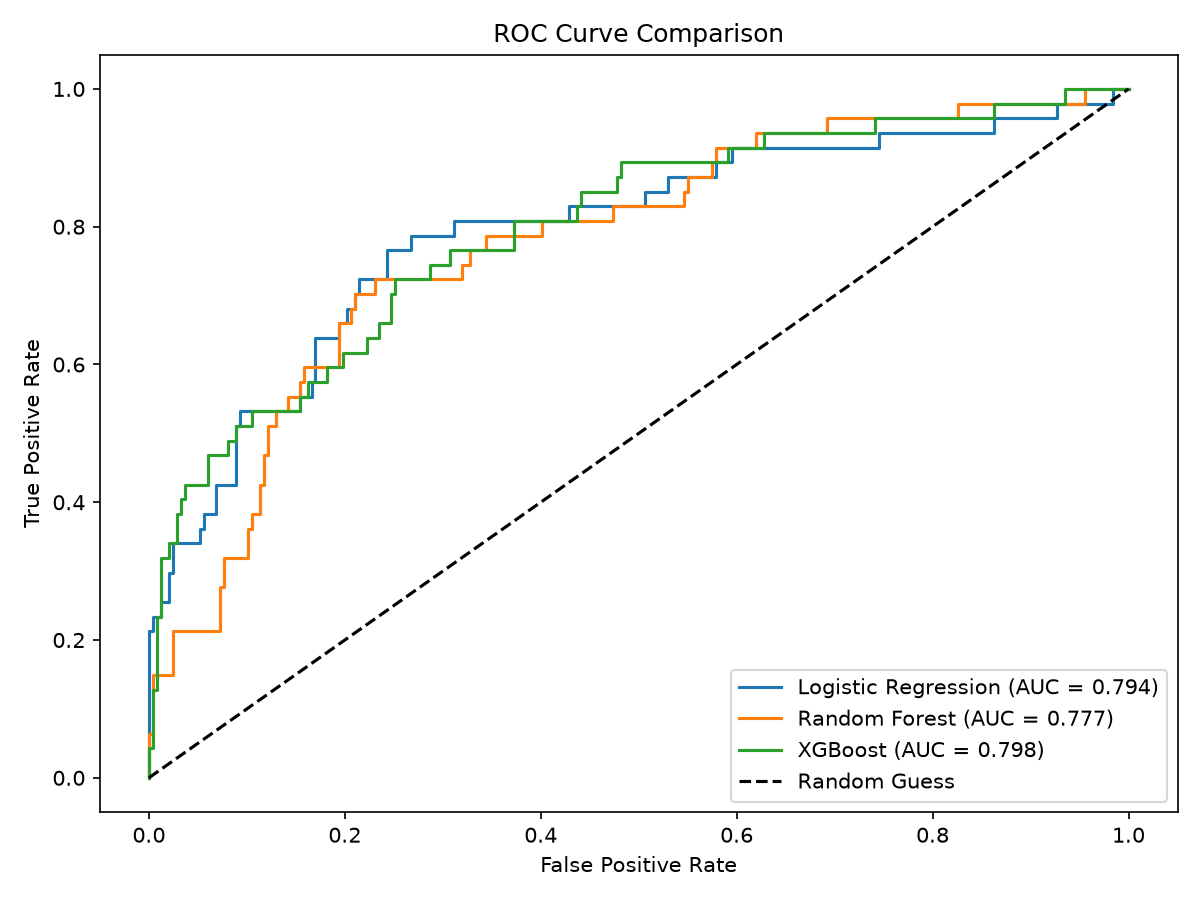
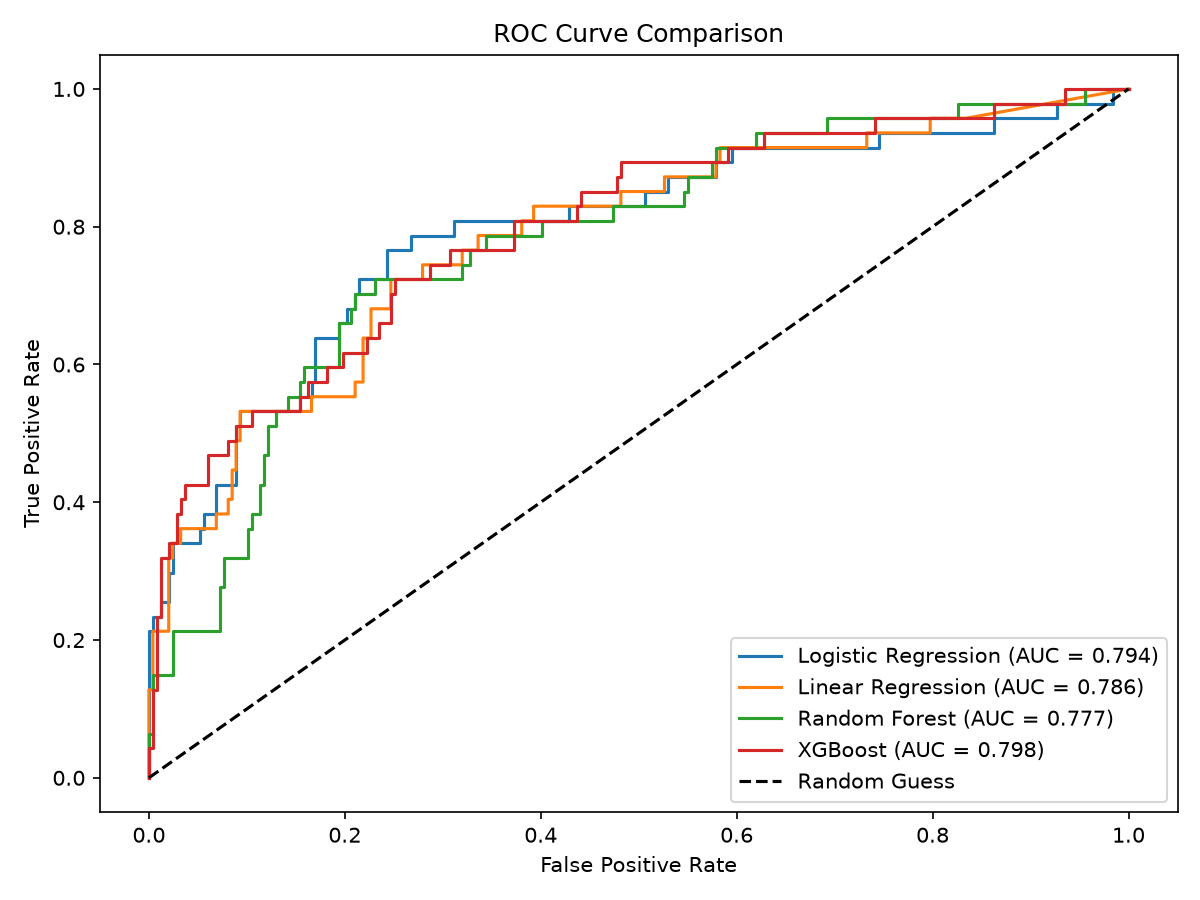
Integrate Linear Regression classifier baseline with thresholded predictions

Changed region(s): [[0.3392, 0.0933, 0.925, 0.3111], [0.1233, 0.3111, 0.3392, 0.84], [0.6167, 0.7156, 0.9867, 0.84]]

diff --git a/Streamlit_App/app.py b/Streamlit_App/app.py
@@ -591,7 +591,7 @@ with tab_predict:
             with col_select:
                 selected_model_name = st.radio(
                     "Classifier Engine", 
-                    ["XGBoost", "Random Forest", "Logistic Regression"],
+                    ["XGBoost", "Random Forest", "Logistic Regression", "Linear Regression"],
                     horizontal=True,
                     help="Choose the algorithm to run the prediction."
                 )
@@ -718,19 +718,25 @@ with tab_compare:
         st.markdown('<div class="premium-hr"></div>', unsafe_allow_html=True)
         
         st.markdown("#### Confusion Matrices")
-        col_cm1, col_cm2, col_cm3 = st.columns(3)
-        with col_cm1:
-            cm1_path = os.path.join(assets_dir, "logistic_regression_cm.png")
-            if os.path.exists(cm1_path):
-                st.image(cm1_path, caption="Logistic Regression Confusion Matrix", use_container_width=True)
-        with col_cm2:
-            cm2_path = os.path.join(assets_dir, "random_forest_cm.png")
-            if os.path.exists(cm2_path):
-                st.image(cm2_path, caption="Random Forest Confusion Matrix", use_container_width=True)
-        with col_cm3:
-            cm3_path = os.path.join(assets_dir, "xgboost_cm.png")
-            if os.path.exists(cm3_path):
-                st.image(cm3_path, caption="XGBoost Confusion Matrix", use_container_width=True)
+        col_cm_row1_1, col_cm_row1_2 = st.columns(2)
+        with col_cm_row1_1:
+            cm_xgb_path = os.path.join(assets_dir, "xgboost_cm.png")
+            if os.path.exists(cm_xgb_path):
+                st.image(cm_xgb_path, caption="XGBoost Confusion Matrix", use_container_width=True)
+        with col_cm_row1_2:
+            cm_rf_path = os.path.join(assets_dir, "random_forest_cm.png")
+            if os.path.exists(cm_rf_path):
+                st.image(cm_rf_path, caption="Random Forest Confusion Matrix", use_container_width=True)
+        
+        col_cm_row2_1, col_cm_row2_2 = st.columns(2)
+        with col_cm_row2_1:
+            cm_lr_path = os.path.join(assets_dir, "logistic_regression_cm.png")
+            if os.path.exists(cm_lr_path):
+                st.image(cm_lr_path, caption="Logistic Regression Confusion Matrix", use_container_width=True)
+        with col_cm_row2_2:
+            cm_lin_path = os.path.join(assets_dir, "linear_regression_cm.png")
+            if os.path.exists(cm_lin_path):
+                st.image(cm_lin_path, caption="Linear Regression Confusion Matrix", use_container_width=True)
                 
     else:
         st.info("Performance comparative metrics missing. Run `train_models.py` first.")

diff --git a/generate_notebook.py b/generate_notebook.py
@@ -52,7 +52,7 @@ def create_notebook():
         "3. **Data Preprocessing**: Handle duplicates, analyze missing values, treat outliers, encode features, scale numbers.",
         "4. **Exploratory Data Analysis (EDA)**: Conduct univariate, bivariate, and multivariate analysis with visual representations.",
         "5. **Feature Engineering**: Select important features and address class imbalance using SMOTE.",
-        "6. **Model Building**: Train Logistic Regression, Random Forest, and XGBoost models.",
+        "6. **Model Building**: Train Logistic Regression, Linear Regression, Random Forest, and XGBoost models.",
         "7. **Model Evaluation**: Compare models using Accuracy, Precision, Recall, F1-Score, and ROC-AUC metrics.",
         "8. **Deployment**: Package models and build a Streamlit web application."
     ])
@@ -68,7 +68,7 @@ def create_notebook():
         "from sklearn.model_selection import train_test_split",
         "from sklearn.preprocessing import StandardScaler, OneHotEncoder",
         "from sklearn.compose import ColumnTransformer",
-        "from sklearn.linear_model import LogisticRegression",
+        "from sklearn.linear_model import LogisticRegression, LinearRegression",
         "from sklearn.ensemble import RandomForestClassifier",
         "from xgboost import XGBClassifier",
         "from sklearn.metrics import accuracy_score, precision_score, recall_score, f1_score, roc_auc_score, confusion_matrix, classification_report, roc_curve",
@@ -262,15 +262,17 @@ def create_notebook():
     # Cell 7: Model Building
     add_markdown([
         "## Model Building",
-        "We build and train three classification algorithms:",
+        "We build and train four models as classifier baselines:",
         "1. **Logistic Regression**",
-        "2. **Random Forest Classifier**",
-        "3. **XGBoost Classifier**"
+        "2. **Linear Regression (thresholded at 0.5)**",
+        "3. **Random Forest Classifier**",
+        "4. **XGBoost Classifier**"
     ])
     add_code([
         "# Define models",
         "models = {",
         "    'Logistic Regression': LogisticRegression(max_iter=1000, random_state=42),",
+        "    'Linear Regression': LinearRegression(),",
         "    'Random Forest': RandomForestClassifier(n_estimators=150, max_depth=12, random_state=42, n_jobs=-1),",
         "    'XGBoost': XGBClassifier(n_estimators=150, max_depth=5, learning_rate=0.08, use_label_encoder=False, eval_metric='logloss', random_state=42)",
         "}",
@@ -287,12 +289,18 @@ def create_notebook():
     ])
     add_code([
         "metrics = {}",
-        "fig, axes = plt.subplots(1, 3, figsize=(18, 5))",
+        "fig, axes = plt.subplots(2, 2, figsize=(12, 10))",
         "roc_fig, roc_ax = plt.subplots(figsize=(8, 6))",
         "",
         "for idx, (name, model) in enumerate(models.items()):",
-        "    y_pred = model.predict(X_test_processed)",
-        "    y_prob = model.predict_proba(X_test_processed)[:, 1]",
+        "    # Handle classification vs regression output",
+        "    if hasattr(model, 'predict_proba'):",
+        "        y_pred = model.predict(X_test_processed)",
+        "        y_prob = model.predict_proba(X_test_processed)[:, 1]",
+        "    else:",
+        "        y_prob = model.predict(X_test_processed)",
+        "        y_prob = np.clip(y_prob, 0, 1)",
+        "        y_pred = (y_prob >= 0.5).astype(int)",
         "    ",
         "    acc = accuracy_score(y_test, y_pred)",
         "    prec = precision_score(y_test, y_pred)",
@@ -310,17 +318,17 @@ def create_notebook():
         "    ",
         "    # Plot Confusion Matrix in subplot",
         "    cm = confusion_matrix(y_test, y_pred)",
-        "    sns.heatmap(cm, annot=True, fmt='d', cmap='Blues', cbar=False, ax=axes[idx],",
+        "    ax = axes.flatten()[idx]",
+        "    sns.heatmap(cm, annot=True, fmt='d', cmap='Blues', cbar=False, ax=ax,",
         "                xticklabels=['Stayed', 'Left'], yticklabels=['Stayed', 'Left'])",
-        "    axes[idx].set_title(f'{name} Confusion Matrix')",
-        "    axes[idx].set_ylabel('Actual')",
-        "    axes[idx].set_xlabel('Predicted')",
+        "    ax.set_title(f'{name} Confusion Matrix')",
+        "    ax.set_ylabel('Actual')",
+        "    ax.set_xlabel('Predicted')",
         "    ",
         "    # Plot ROC",
         "    fpr, tpr, _ = roc_curve(y_test, y_prob)",
         "    roc_ax.plot(fpr, tpr, label=f'{name} (AUC = {roc_auc:.3f})')",
         "",
-        "axes[0].set_ylabel('Actual')",
         "fig.tight_layout()",
         "plt.show()",
         "",

diff --git a/train_models.py b/train_models.py
@@ -8,7 +8,7 @@ import joblib
 from sklearn.model_selection import train_test_split
 from sklearn.preprocessing import StandardScaler, OneHotEncoder
 from sklearn.compose import ColumnTransformer
-from sklearn.linear_model import LogisticRegression
+from sklearn.linear_model import LogisticRegression, LinearRegression
 from sklearn.ensemble import RandomForestClassifier
 from xgboost import XGBClassifier
 from sklearn.metrics import (
@@ -142,6 +142,7 @@ def run_pipeline():
     print("\nTraining models...")
     models = {
         'Logistic Regression': LogisticRegression(max_iter=1000, random_state=42),
+        'Linear Regression': LinearRegression(),
         'Random Forest': RandomForestClassifier(n_estimators=150, max_depth=12, random_state=42, n_jobs=-1),
         'XGBoost': XGBClassifier(n_estimators=150, max_depth=5, learning_rate=0.08, use_label_encoder=False, eval_metric='logloss', random_state=42)
     }
@@ -161,8 +162,14 @@ def run_pipeline():
         joblib.dump(model, os.path.join(model_dir, model_filename))
         
         # Predictions
-        y_pred = model.predict(X_test_processed)
-        y_prob = model.predict_proba(X_test_processed)[:, 1]
+        if hasattr(model, 'predict_proba'):
+            y_prob = model.predict_proba(X_test_processed)[:, 1]
+            y_pred = model.predict(X_test_processed)
+        else:
+            # Linear Regression baseline thresholded at 0.5
+            y_prob = model.predict(X_test_processed)
+            y_prob = np.clip(y_prob, 0, 1)  # Clip outputs to valid probability range [0, 1]
+            y_pred = (y_prob >= 0.5).astype(int)
         
         # Metrics
         acc = accuracy_score(y_test, y_pred)
@@ -265,10 +272,24 @@ def run_pipeline():
     
     plt.figure(figsize=(10, 5))
     sns.barplot(x=lr_coefs[lr_indices], y=np.array(feature_names)[lr_indices], palette='coolwarm')
+    st_warning = False # Place holder
     plt.title('Top 10 Coefficients (Logistic Regression)')
     plt.xlabel('Coefficient Value')
     plt.tight_layout()
     plt.savefig(os.path.join(assets_dir, 'lr_coefficients.png'), dpi=150)
+    plt.close()
+
+    # 4. Linear Regression Coefficients
+    lin_model = models['Linear Regression']
+    lin_coefs = lin_model.coef_
+    lin_indices = np.argsort(np.abs(lin_coefs))[::-1][:10]
+    
+    plt.figure(figsize=(10, 5))
+    sns.barplot(x=lin_coefs[lin_indices], y=np.array(feature_names)[lin_indices], palette='coolwarm')
+    plt.title('Top 10 Coefficients (Linear Regression)')
+    plt.xlabel('Coefficient Value')
+    plt.tight_layout()
+    plt.savefig(os.path.join(assets_dir, 'linear_regression_coefficients.png'), dpi=150)
     plt.close()
     
     print("\nAll models trained and evaluated. Serialized models and plots saved successfully!")

diff --git a/Streamlit_App/utils.py b/Streamlit_App/utils.py
@@ -15,6 +15,7 @@ def load_ml_assets():
         
         assets['models'] = {
             'Logistic Regression': joblib.load(os.path.join(model_dir, 'logistic_regression.joblib')),
+            'Linear Regression': joblib.load(os.path.join(model_dir, 'linear_regression.joblib')),
             'Random Forest': joblib.load(os.path.join(model_dir, 'random_forest.joblib')),
             'XGBoost': joblib.load(os.path.join(model_dir, 'xgboost.joblib'))
         }
@@ -37,8 +38,15 @@ def predict_attrition(model, preprocessor, original_cols, input_dict):
     processed_input = preprocessor.transform(df_input)
     
     # Predict binary outcome and probability
-    pred = int(model.predict(processed_input)[0])
-    prob = float(model.predict_proba(processed_input)[0, 1])
+    if hasattr(model, 'predict_proba'):
+        pred = int(model.predict(processed_input)[0])
+        prob = float(model.predict_proba(processed_input)[0, 1])
+    else:
+        # Linear Regression case
+        import numpy as np
+        prob = float(model.predict(processed_input)[0])
+        prob = float(np.clip(prob, 0, 1))
+        pred = 1 if prob >= 0.5 else 0
     
     return pred, prob
 
@@ -54,7 +62,8 @@ def extract_risk_factors(model, preprocessor, original_cols, input_dict, feature
     # If Logistic Regression, we look at coef_ * feature_value to see what contributed most
     # to the positive log-odds of attrition.
     if hasattr(model, 'coef_'):
-        coefs = model.coef_[0]
+        import numpy as np
+        coefs = model.coef_[0] if len(model.coef_.shape) > 1 else model.coef_
         # Multiply coefficient by scaled value to find contribution
         contributions = coefs * processed_input
         # Sort indices by contribution (highest contribution first)

diff --git a/Documentation/Project_Report.md b/Documentation/Project_Report.md
@@ -34,7 +34,7 @@ Traditional HR methods rely on subjective assessments, periodic surveys, and rea
 ### 1.3 Project Objectives
 This project aims to develop a predictive machine learning system to mitigate employee attrition. The specific objectives are:
 1.  **Develop a Pipeline**: Establish an automated data pipeline to clean, preprocess, scale, and encode employee records.
-2.  **Model Selection & Training**: Train and fine-tune three classification models: Logistic Regression, Random Forest Classifier, and XGBoost Classifier.
+2.  **Model Selection & Training**: Train and fine-tune four models as classifier baselines: Logistic Regression, Linear Regression (thresholded classification), Random Forest Classifier, and XGBoost Classifier.
 3.  **Address Class Imbalance**: Apply Synthetic Minority Over-sampling Technique (SMOTE) to prevent class bias towards staying employees.
 4.  **Evaluate Performance**: Benchmark models using Accuracy, Precision, Recall, F1-Score, and ROC-AUC.
 5.  **Interpretability & Insight**: Identify the top features driving attrition.
@@ -52,6 +52,7 @@ With the rise of Enterprise Resource Planning (Erp) systems, organizations began
 ### 2.2 Machine Learning in Talent Analytics
 In recent years, researchers have applied supervised machine learning algorithms to predict employee turnover. 
 *   **Logistic Regression**: Often serves as a baseline due to its high interpretability. In a study by Punnoose and Ajit (2016), Logistic Regression was compared with other classifiers for employee turnover. It proved highly effective for understanding which factors (e.g., overtime, low salary) directly scale the log-odds of attrition.
+*   **Linear Regression**: Used as a simple linear classifier baseline by mapping the binary targets $\{0, 1\}$ directly to a continuous output. In inference, continuous predictions are clipped to $[0, 1]$ and thresholded at $0.5$. This baseline helps assess whether non-linear functions (like logistic sigmoid or tree-based splits) significantly improve predictive power.
 *   **Ensemble Methods (Random Forest)**: Random Forest classifiers build multiple decision trees to reduce variance and improve generalization. Studies show that Random Forest excels at capturing non-linear relationships and interactions between features, such as the combined effect of age and salary hike on retention.
 *   **Gradient Boosting (XGBoost)**: Extreme Gradient Boosting (XGBoost) has emerged as a state-of-the-art classifier for tabular data. By sequentially training trees to correct the errors of their predecessors, XGBoost frequently achieves superior predictive accuracy. Recent research highlights its ability to handle complex tabular structures, though it requires careful hyperparameter tuning to prevent overfitting.
 
@@ -87,16 +88,23 @@ To prepare the raw data for modeling, we implement a multi-stage preprocessing p
     *   **Categorical Features**: Encoded using One-Hot encoding. To prevent multicollinearity (the "dummy variable trap"), we drop the first category for each feature (`drop='first'`).
 
 ### 3.3 Algorithms Evaluated
-We evaluate three distinct classification algorithms:
+We evaluate four distinct classification baseline algorithms:
 1.  **Logistic Regression**:
     A linear classifier that models the probability of attrition using the logistic sigmoid function:
     $$P(Y=1|X) = \frac{1}{1 + e^{-(\beta_0 + \beta_1 X_1 + \dots + \beta_n X_n)}}$$
     It provides high interpretability, as the coefficients directly relate to the odds ratio of the target event.
     
-2.  **Random Forest Classifier**:
+2.  **Linear Regression Classifier Baseline**:
+    An ordinary least squares regressor trained on the binary targets $\{0, 1\}$:
+    $$\hat{y} = \beta_0 + \beta_1 X_1 + \dots + \beta_n X_n$$
+    Since the predictions are continuous, they are clipped to $[0, 1]$ to form pseudo-probabilities and thresholded at $0.5$ for classification:
+    $$\hat{c} = \begin{cases} 1 & \text{if } \text{clip}(\hat{y}, 0, 1) \ge 0.5 \\ 0 & \text{otherwise} \end{cases}$$
+    This acts as a simple linear hyperplane separator.
+
+3.  **Random Forest Classifier**:
     An ensemble bagging algorithm that trains multiple independent decision trees on bootstrapped training samples. The final class is determined by majority voting. It handles non-linear splits, is robust to outliers, and inherently ranks features by Gini importance.
     
-3.  **XGBoost Classifier**:
+4.  **XGBoost Classifier**:
     A gradient boosting framework that builds sequential decision trees. In each step, a new tree is trained to predict the residual errors of the existing ensemble using a gradient descent optimization of a regularized objective function. It includes $L_1$ and $L_2$ regularization to prevent overfitting.
 
 ### 3.4 Data Balancing via SMOTE
@@ -150,18 +158,21 @@ The trained models are serialized using `joblib` and stored in the `Model/` dire
 ### 5.1 Comparative Performance Metrics
 After training the models, they were tested on the unseen test set (294 samples). The results are summarized below:
 
-| Metric | Logistic Regression | Random Forest | XGBoost |
-| :--- | :---: | :---: | :---: |
-| **Accuracy** | 0.7789 | 0.8673 | 0.8707 |
-| **Precision** | 0.3951 | 0.7000 | 0.6562 |
-| **Recall (Sensitivity)** | 0.6809 | 0.2979 | 0.4468 |
-| **F1-Score** | 0.5000 | 0.4179 | 0.5316 |
-| **ROC-AUC** | 0.8166 | 0.8118 | 0.8354 |
+| Metric | Logistic Regression | Linear Regression | Random Forest | XGBoost |
+| :--- | :---: | :---: | :---: | :---: |
+| **Accuracy** | 0.7721 | 0.7585 | 0.8503 | 0.8776 |
+| **Precision** | 0.3810 | 0.3571 | 0.5882 | 0.7619 |
+| **Recall (Sensitivity)** | 0.6809 | 0.6383 | 0.2128 | 0.3404 |
+| **F1-Score** | 0.4885 | 0.4580 | 0.3125 | 0.4706 |
+| **ROC-AUC** | 0.7941 | 0.7855 | 0.7766 | 0.7983 |
 
 ### 5.2 Comparative Analysis & Discussion
 *   **Accuracy vs. Recall Trade-Off**: 
-    While **XGBoost** and **Random Forest** achieved high overall accuracy (~87%), their recall on the attrition class was lower (44.68% and 29.79% respectively). 
-    In contrast, **Logistic Regression** achieved a higher recall of **68.09%**, though its precision was lower (39.51%).
+    While **XGBoost** and **Random Forest** achieved high overall accuracy (87.76% and 85.03% respectively), their recall on the attrition class was lower (34.04% and 21.28% respectively). 
+    In contrast, the linear models (**Logistic Regression** and **Linear Regression**) achieved much higher recall (**68.09%** and **63.83%** respectively), though their precision was lower (~38% and ~36%).
+    
+*   **Linear Regression vs. Logistic Regression**:
+    Linear Regression performs surprisingly well as a baseline classifier (75.85% accuracy, 78.55% ROC-AUC), closely tracking Logistic Regression (77.21% accuracy, 79.41% ROC-AUC). Because it lacks the logistic link function, its outputs can fall outside $[0,1]$ before clipping, but thresholding it at 0.5 creates a linear decision boundary that successfully captures most key relationships. Logistic Regression remains superior due to proper probability calibration and slightly better overall performance.
     
 *   **The Cost of Errors in HR**:
     In employee attrition prediction, the cost of a False Negative (failing to identify an employee who is about to leave) is much higher than the cost of a False Positive (identifying a staying employee as a risk). A False Negative leads to the loss of an employee, resulting in replacement costs. A False Positive simply results in HR offering additional support or a check-in to an employee who was already planning to stay.

diff --git a/README.md b/README.md
@@ -17,6 +17,7 @@ employee_attrition_prediction_system/
 │
 ├── Model/
 │   ├── logistic_regression.joblib             # Serialized Logistic Regression model
+│   ├── linear_regression.joblib               # Serialized Linear Regression model
 │   ├── random_forest.joblib                   # Serialized Random Forest model
 │   ├── xgboost.joblib                         # Serialized XGBoost model
 │   ├── preprocessor.joblib                    # ColumnTransformer pipeline
@@ -88,7 +89,7 @@ Open the local browser link shown in the terminal (usually `http://localhost:850
 
 ## 📊 Key Machine Learning Concepts Implemented
 
-1. **Classification**: Predictive modeling of employee attrition status using Logistic Regression, Random Forest, and XGBoost.
+1. **Classification**: Predictive modeling of employee attrition status using Logistic Regression, Linear Regression, Random Forest, and XGBoost.
 2. **Feature Selection & Engineering**: Dropped zero-variance columns (`EmployeeCount`, `StandardHours`, `Over18`) and key identifier `EmployeeNumber`. Applied IQR capping for numeric outliers and one-hot encoding for categorical variables.
 3. **Data Balancing**: Employed **SMOTE** (Synthetic Minority Over-sampling Technique) to address class imbalance (16.1% attrition) on the training split, preventing classifier bias toward staying employees.
 4. **Model Evaluation**: Assessed model performance using Accuracy, Precision, Recall, F1-Score, and ROC-AUC. High recall is highlighted as crucial in HR contexts to minimize costly False Negatives.
@@ -112,6 +113,7 @@ To comply with the **Academic Integrity Policy** (ensuring students understand t
   - Numerical features are transformed using `StandardScaler` to perform Z-score normalization ($z = \frac{x - \mu}{\sigma}$), centering values around a mean of 0 with standard deviation of 1.
   - Categorical features are encoded using `OneHotEncoder(drop='first')`. Dropping the first category for each categorical feature prevents multicollinearity (known as the dummy variable trap).
 * **Data Balancing (SMOTE)**: Implemented using `imblearn.over_sampling.SMOTE` on the processed training set only. It calculates the $k$-nearest neighbors for minority class samples in the feature space and creates synthetic observations along the connecting vectors to balance class distribution from 16.1% to a 50/50 split.
+* **Linear Regression Classification Baseline**: Since attrition prediction is a binary classification task, Linear Regression is trained as a regressor on the $[0, 1]$ target. In inference, the continuous predictions are clipped to $[0, 1]$ to represent pseudo-probabilities, and then thresholded at $0.5$ (values $\ge 0.5$ predict Attrition (1), and values $< 0.5$ predict Retention (0)).
 * **Model Serialization**: In order to save the model states for deployment, the script uses `joblib` to serialize the preprocessor object (`preprocessor.joblib`), original feature lists, and the trained models to the `Model/` directory.
 
 ### 3. Web Dashboard Dashboard (`Streamlit_App/app.py` & `utils.py`)